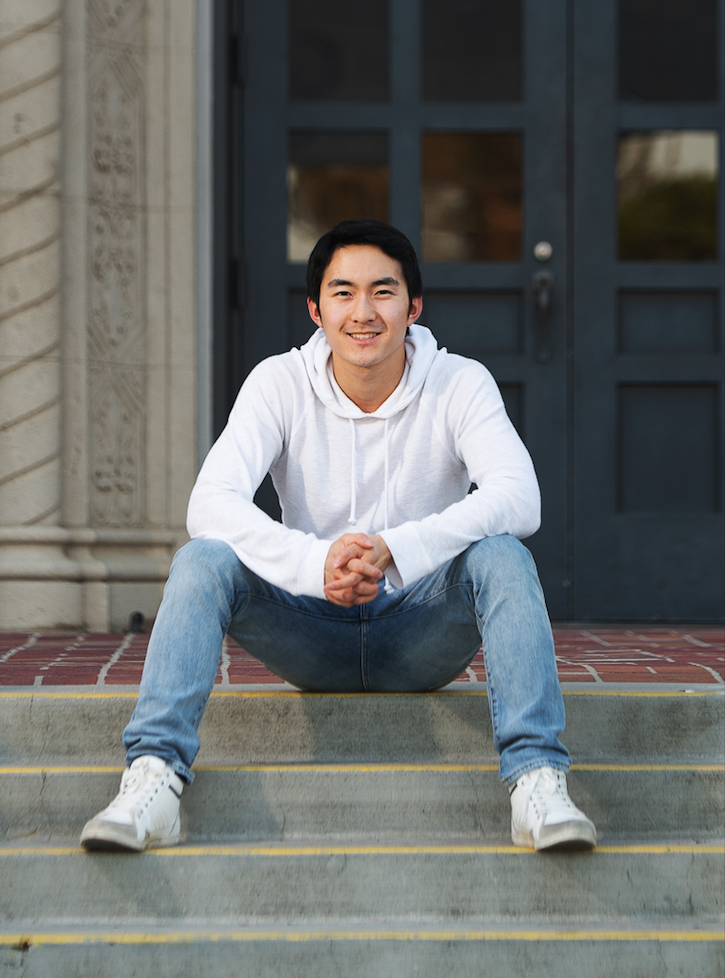
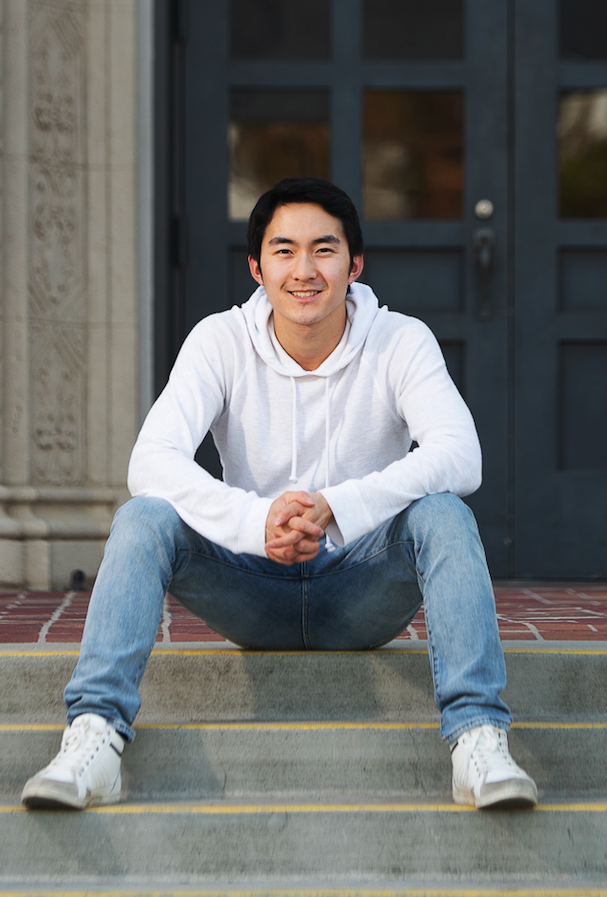
About page changes

diff --git a/css/style2.css b/css/style2.css
@@ -1740,36 +1740,38 @@ button.slick-disabled {
 }
 
 section.aboutme {
-    margin: 30px;
+    margin: 80px 0;
+    padding: 0 22px;
 }
 section.aboutme h2.main-title {
     font-family: "LeagueSpartan";
-    font-size: 48px;
+    font-size: 45px;
+    margin-bottom: 25px;
 }
 section.aboutme .left-copy {
-    width: 50%;
+    width: 52%;
     float: left;
     padding-right: 50px;
     box-sizing: border-box;
 }
 section.aboutme .right-img {
-    width: 50%;
+    width: 42%;
     float: right;
-    padding: 0 20px;
     box-sizing: border-box;
 }
 section.aboutme .right-img img {
     width: 100%;
     border-radius: 8px;
-    box-shadow: 0 0 50px #cccccc;
+    box-shadow: 10px 10px 70px #cccccc;
 }
 section.aboutme .left-copy p {
     font-family: "Source Sans Pro";
-    font-size: 18px;
+    font-size: 16px;
+    line-height: 27px;
 }
 
 .contact-but-cont {
-    margin: 0 auto;
+    margin: 15px 0 0 -5px;
     position: relative;
     display: inline-block;
     min-width: 192px;
@@ -1841,22 +1843,28 @@ section.aboutme .left-copy p {
 
 section.skills {
     display: inline-block;
-    width: 100%;
+    width: 84%;
     border-top: 5px solid #000000;
     border-bottom: 5px solid #000000;
-    margin: 80px 0;
-    padding: 40px 50px;
+    margin: 100px 0 80px 22px;
+    padding: 40px 60px;
 }
 .tskills {
     display: inline-block;
-    margin: 30px 0;
+    margin: 60px 0 0;
 }
 .tskills-title {
     font-family: "LeagueSpartan";
-    font-size: 34px;
+    font-size: 30px;
     width: 200px;
     line-height: 46px;
     float: left;
+}
+.tsname {
+    font-size: 14px;
+}
+#my-specialties {
+    margin-top:10px;
 }
 .tsicons {
     float: left;
@@ -1881,7 +1889,7 @@ section.skills {
     margin-top: 10px;
 }
 .alinks {
-    margin: 100px 0;
+    margin: 100px 0 0;
     display: block;
     height: 200px;
 }
@@ -2116,52 +2124,42 @@ section.skills {
     .resize-cont {
         text-align: center;
         position: relative;
-        top: calc(50% - 250px);
+        top: calc(50% - 214px);
         font-family: "LeagueSpartan";
     }
+    .resize-cont h2 {
+        font-size: 28px;
+    }
+    .resize-cont br {
+        line-height: 47px;
+    }
     video.res.anim {
-        max-width: 500px;
+        max-width: 432px;
     }
     img.res-arrow {
-        width: 30px;
-        height: 30px;
+        width: 50px;
+        height: 50px;
         position: absolute;
     }
     img.res-arrow.arrow_br {
-        bottom:0;
-        right: 0;
-        animation: abr 2s ease  infinite normal ;
+        bottom: 30px;
+        right: 30px;
+        animation: abr 1.3s ease infinite normal;
     }
     img.res-arrow.arrow_bl {
-        bottom:0;
-        left: 0;
-        animation: abl 2s ease  infinite normal ;
+        bottom: 30px;
+        left: 30px;
+        animation: abl 1.3s ease infinite normal;
     }
     img.res-arrow.arrow_tl {
-        top: 0;
-        left: 0;
-        animation: atl 2s ease  infinite normal ;
+        top: 30px;
+        left: 30px;
+        animation: atl 1.3s ease infinite normal;
     }
     img.res-arrow.arrow_tr {
-        top: 0;
-        right: 0;
-        animation: atr 2s ease  infinite normal ;
-    }
-}
-
-
-@media screen and (max-width: 720px) {
-    img.res-arrow.arrow_br {
-        animation: abr 1s ease  infinite normal ;
-    }
-    img.res-arrow.arrow_bl {
-        animation: abl 1s ease  infinite normal ;
-    }
-    img.res-arrow.arrow_tl {
-        animation: atl 1s ease  infinite normal ;
-    }
-    img.res-arrow.arrow_tr {
-        animation: atr 1s ease  infinite normal ;
+        top: 30px;
+        right: 30px;
+        animation: atr 1.3s ease infinite normal;
     }
 }
 
@@ -2172,7 +2170,7 @@ section.skills {
     transform: translate(0,0) ;
   }
   50%{
-    transform: translate(75px, 75px);
+    transform: translate(55px, 55px);
   }
 
   100%{
@@ -2184,7 +2182,7 @@ section.skills {
     transform: translate(0,0) ;
   }
   50%{
-    transform: translate(-75px, 75px);
+    transform: translate(-55px, 55px);
   }
 
   100%{
@@ -2196,7 +2194,7 @@ section.skills {
     transform: translate(0,0) ;
   }
   50%{
-    transform: translate(-75px, -75px);
+    transform: translate(-55px, -55px);
   }
 
   100%{
@@ -2208,7 +2206,7 @@ section.skills {
     transform: translate(0,0) ;
   }
   50%{
-    transform: translate(75px, -75px);
+    transform: translate(55px, -55px);
   }
 
   100%{

diff --git a/index.html b/index.html
@@ -802,7 +802,7 @@
 									<div class="tsicon"><img class="" src="img/htmlcss.png"/><span class="tsname">HTML/CSS</span></div>
 								</div>
 							</div>
-							<div class="tskills">
+							<div class="tskills" id="my-specialties">
 								<div class="tskills-title">
 									My <br>Specialties
 								</div>
